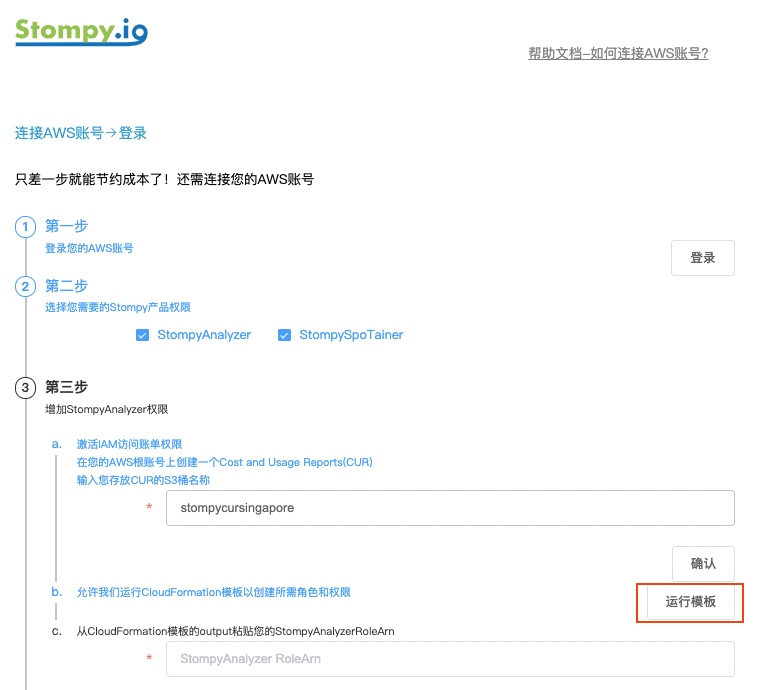
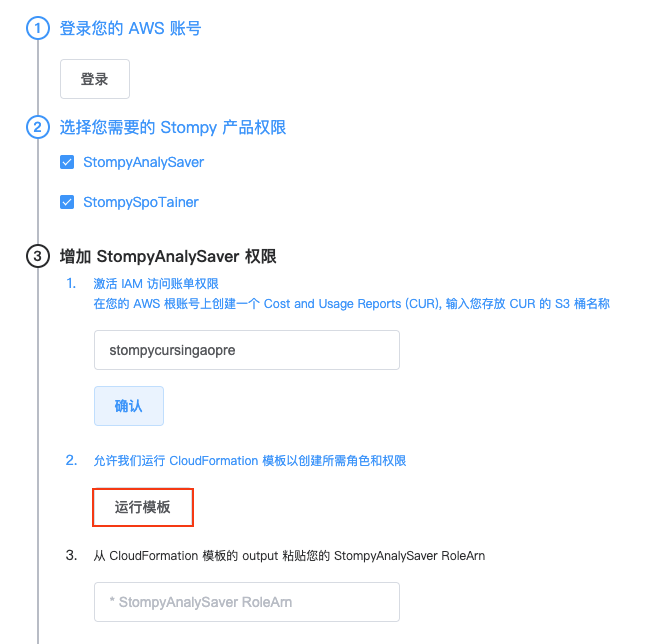
connect document updating
updating some images and words

diff --git a/docs/get-stompyspotainer-permission.md b/docs/get-stompyspotainer-permission.md
@@ -1,12 +1,12 @@
 # 如何添加 StompySpoTainer 权限？
 
-如果您登录到 Stompy 页面后无法访问 StompyAnalySaver 产品，请参考此页面上的步骤以开通您所需的产品权限。我们建议您在 ap-southeast-1（新加坡）AWS 区域执行此过程中的所有操作，包括将 CUR 文件生成到 ap-southeast-1 中的 S3 存储桶中，以降低访问 Stompy 的网络延迟。
+如果您登录到 Stompy 页面后无法访问 StompySpoTainer 产品，请参考此页面上的步骤以开通您所需的产品权限。
 
 ## 主要步骤：
 
 ### 第一步：登录您的 AWS 账号
 
-1. 打开 StompyAnalySaver 产品页面，点击**增加权限**。
+1. 打开 StompySpoTainer 产品页面，点击**增加权限**。
 
 ![img](/_images/stompyspotainer-add-permission.png)
 
